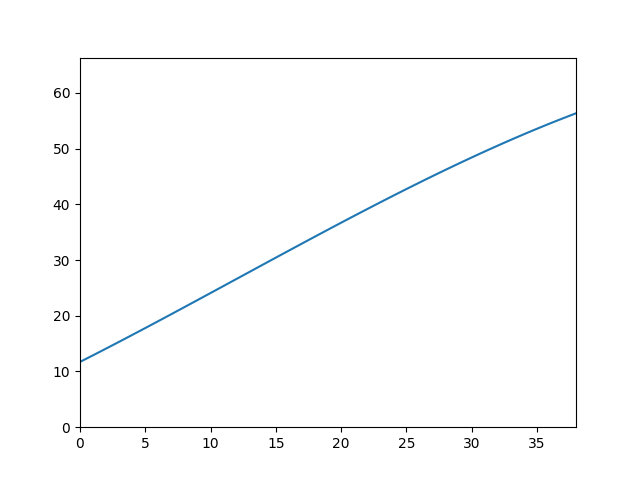
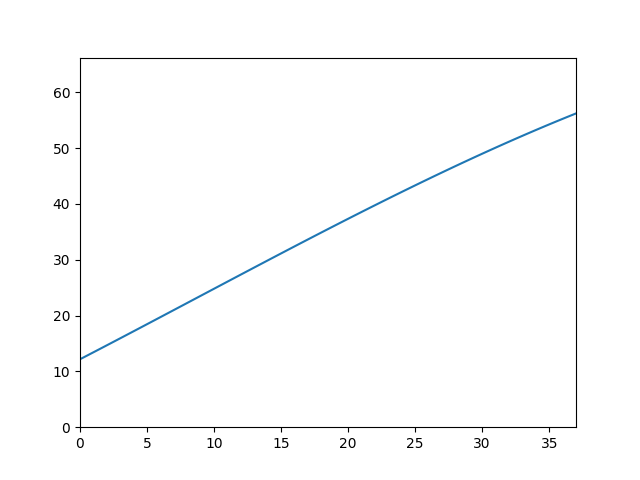
Analyze

diff --git a/derailleurs/SRAM Apex 11-Speed/default.htm b/derailleurs/SRAM Apex 11-Speed/default.htm
@@ -25,15 +25,15 @@ SRAM Apex 1 11-Speed
   </tr>
   <tr>
     <th>Curve Coefficients</th>
-    <td>11.72, 1.186, 0.00703, -0.000193</td>
+    <td>12.17, 1.243, 0.00335, -0.000129</td>
   </tr>
   <tr>
     <th>Physical Low Limit</th>
-    <td>11.72</td>
+    <td>12.17</td>
   </tr>
   <tr>
     <th>Physical High Limit</th>
-    <td>56.35</td>
+    <td>56.20</td>
   </tr>
   <tr>
     <th>Pull Ratio Averaged Across Pulling Runs</th>
@@ -41,7 +41,7 @@ SRAM Apex 1 11-Speed
   </tr>
   <tr>
     <th>Pull Ratio Averaged Across Relaxing Runs</th>
-    <td>nan +/- nan</td>
+    <td>1.228 +/- 0.000</td>
   </tr>
   <tr>
     <th>Pull Ratio Averaged Across All Runs</th>
@@ -72,6 +72,16 @@ SRAM Apex 1 11-Speed
 <a href="pullratio/2024-11-17 11-11 AM Pulling.csv">Raw Measurement Data</a>
 <figure>
 <img src="pullratio/2024-11-17 11-11 AM Pulling.png"/>
+<figcaption>Data and best fit line, excluding points taken at limits</figcaption>
+</figure>
+</section>
+
+
+<section>
+<h2>2024-11-17 14-11 PM Relaxing</h2>
+<a href="pullratio/2024-11-17 14-11 PM Relaxing.csv">Raw Measurement Data</a>
+<figure>
+<img src="pullratio/2024-11-17 14-11 PM Relaxing.png"/>
 <figcaption>Data and best fit line, excluding points taken at limits</figcaption>
 </figure>
 </section>

diff --git a/der-log.py b/der-log.py
@@ -38,7 +38,8 @@ cols = [
   "Puller Indicator After Move (neg) (mm)",
   "Carriage Indicator After Move (mm)",
   "Distance from outside of extrusion to carriage when cable is slack (mm)",
-  "Distance from outside of extrusion to carriage at max pull (mm)"
+  "Distance from outside of extrusion to carriage at max pull (mm)",
+  "Exclude Cable Pull Greater Than (mm)"
 ]  
 
 if direction == "Pulling":

diff --git a/1-analyze_derailleur.py b/1-analyze_derailleur.py
@@ -377,8 +377,8 @@ for dir in os.listdir('derailleurs'):
     continue
 
   # TESTING
-  #if dir != "SRAM Apex 11-Speed":
-  #  continue
+  if dir != "SRAM Apex 11-Speed":
+    continue
 
   print(dir)
 
